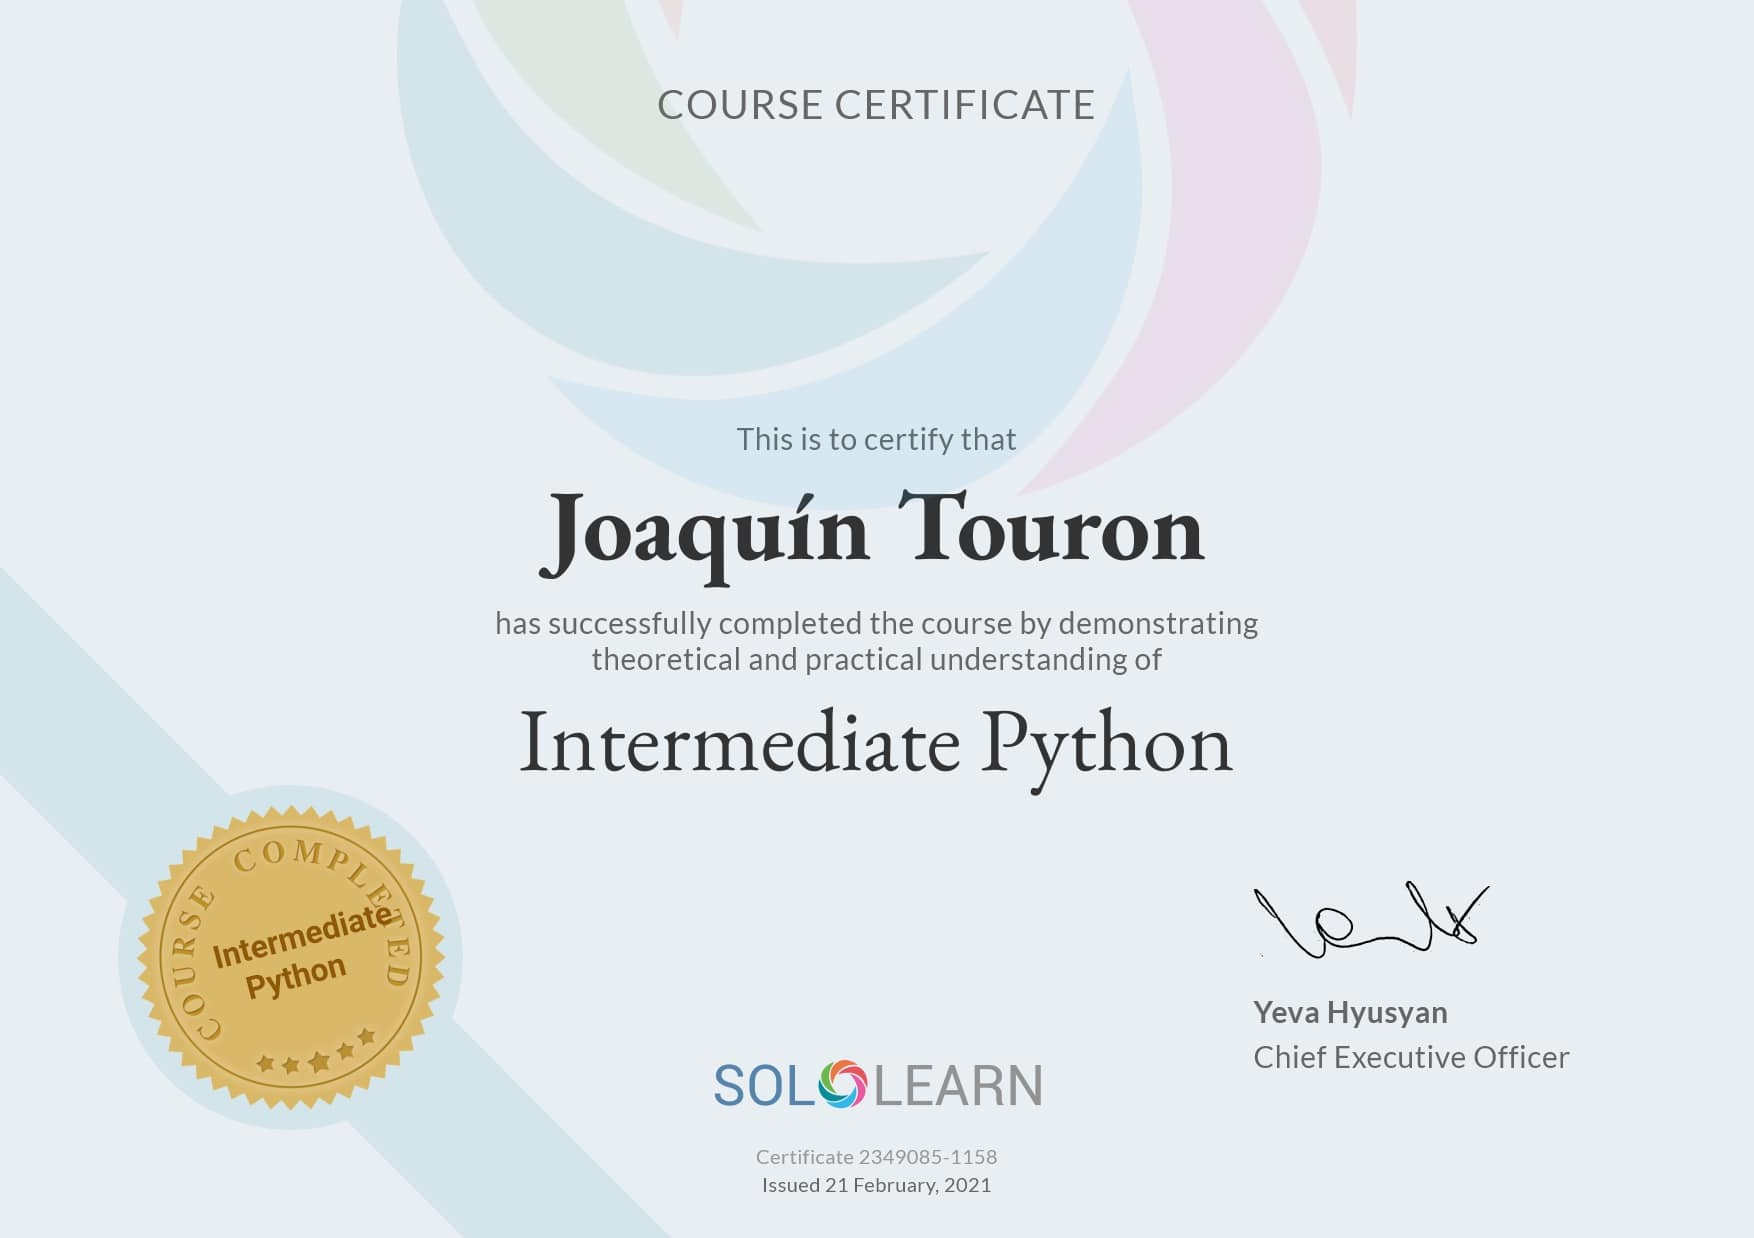
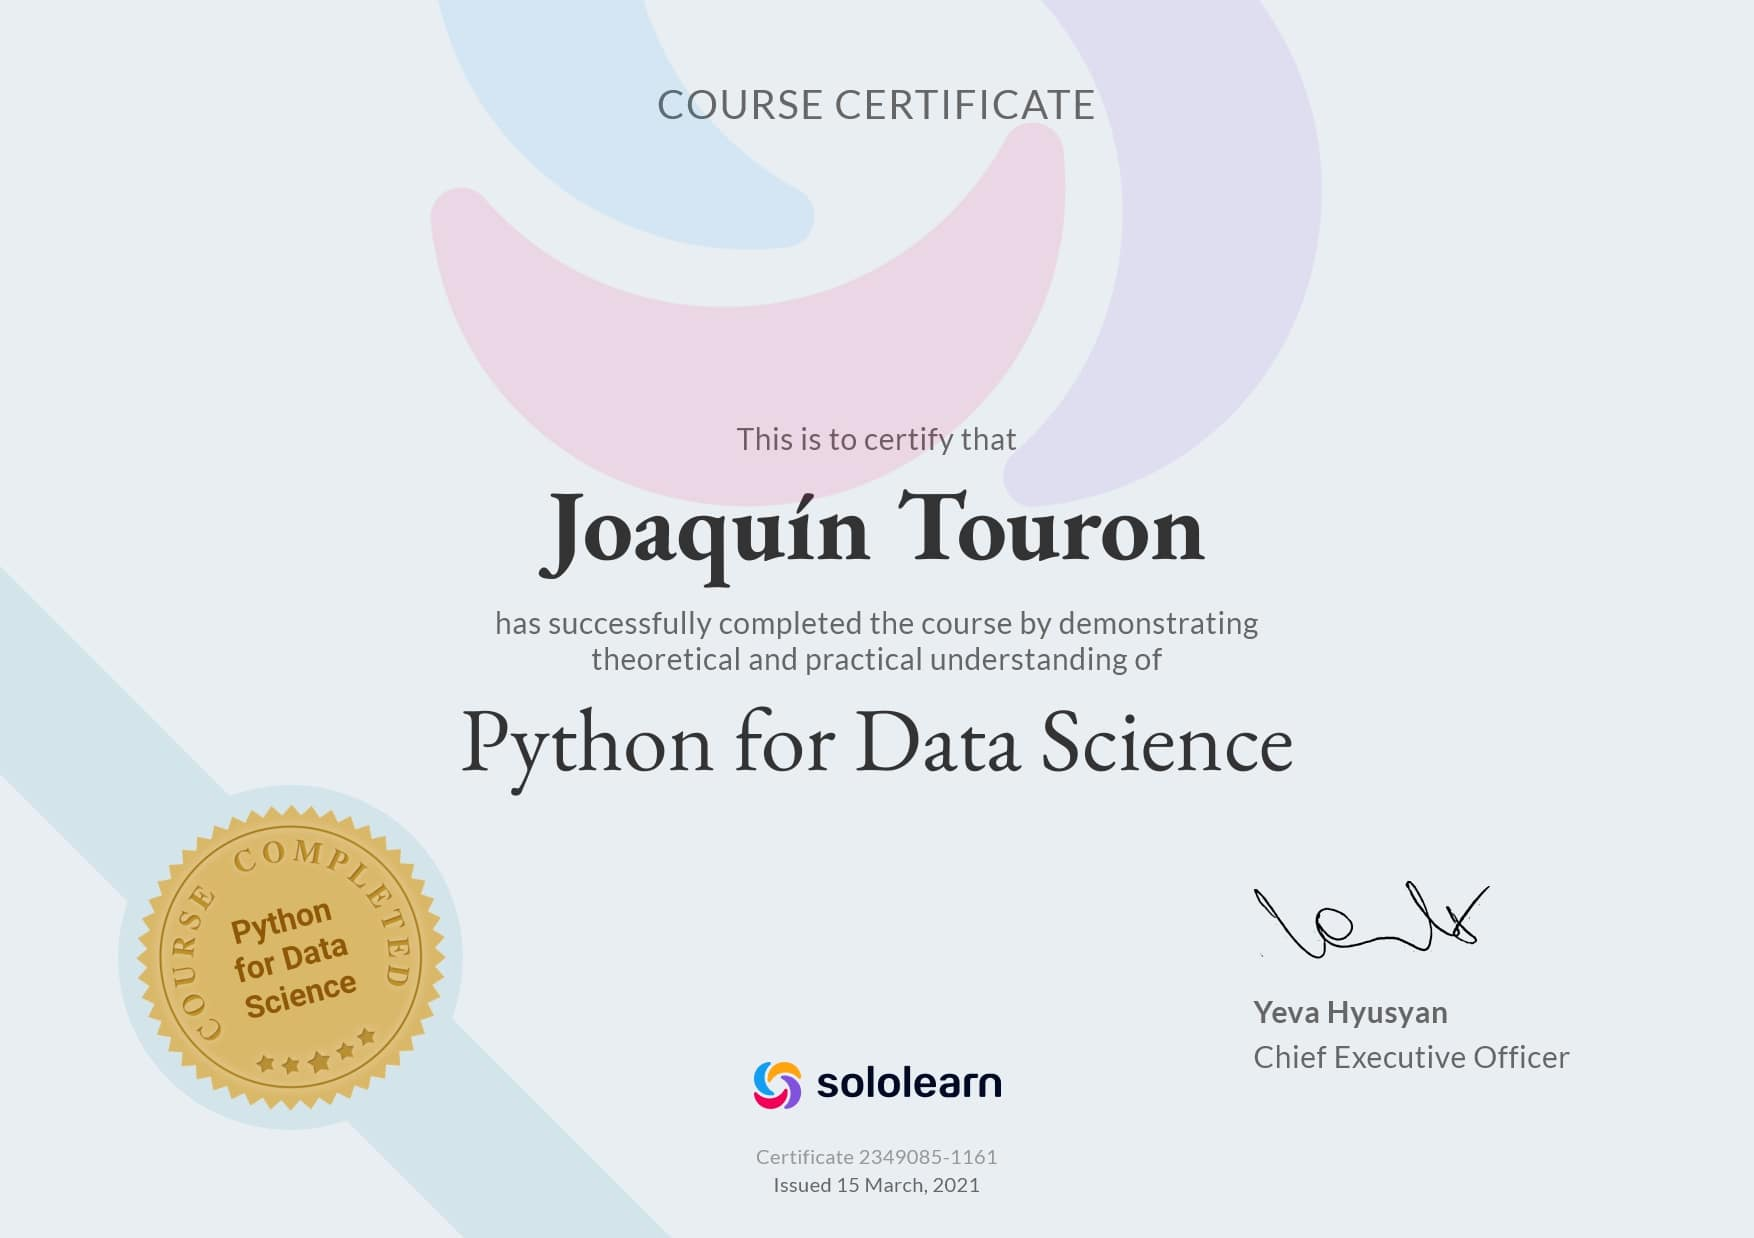
updated certificates to better looking

diff --git a/js/script.js b/js/script.js
@@ -88,7 +88,7 @@ var image1 = document.getElementById("aboutImage1");
 var image2 = document.getElementById("aboutImage2");
 var image3 = document.getElementById("aboutImage3");
 var imageOrder = [image1, image2, image3];
-var totalImages = 26;
+var totalImages = 23;
 var currentImage = 4;
 
 const imageSlideshow = () => {
